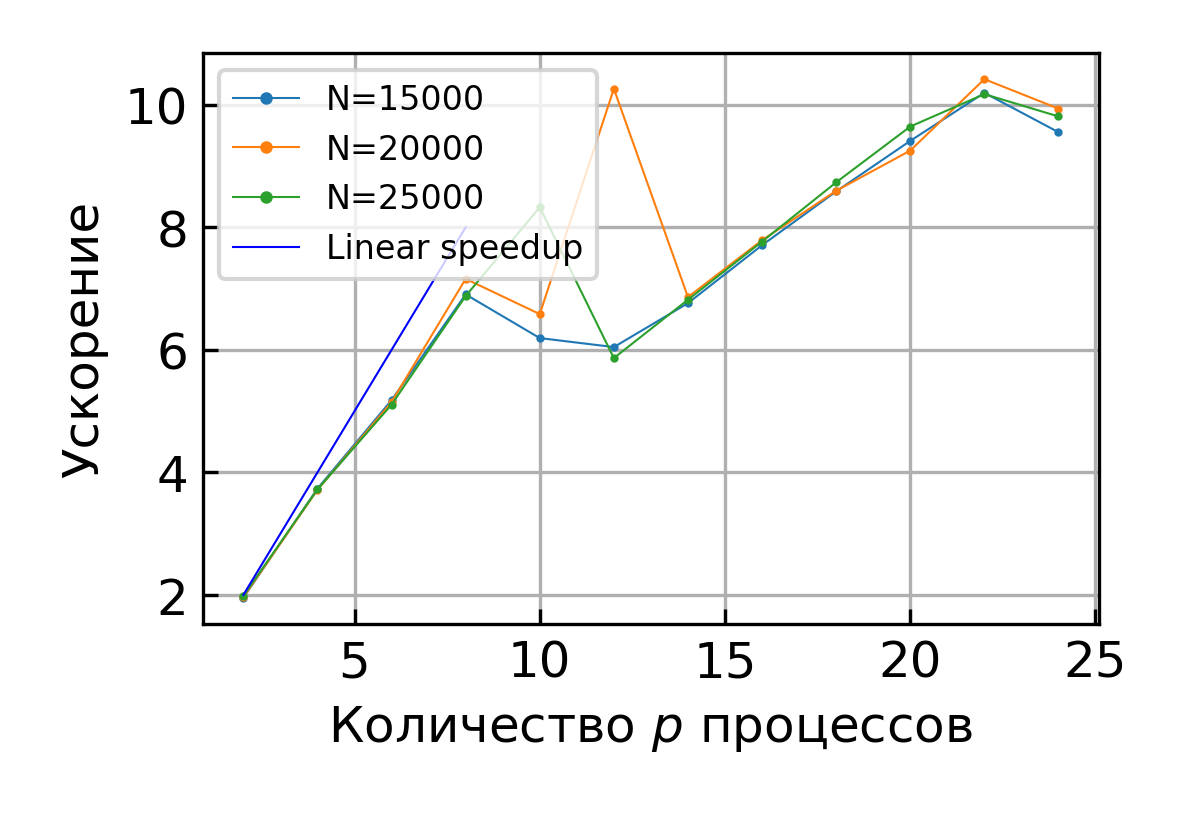
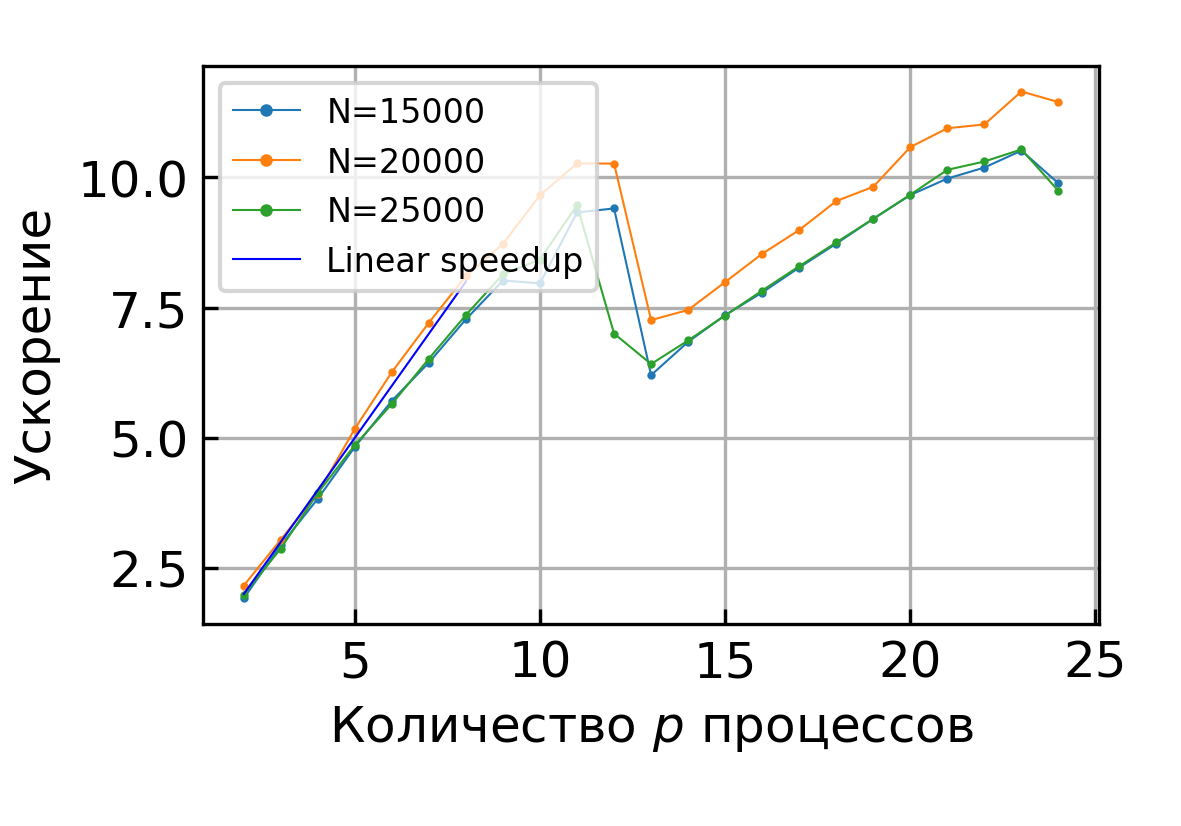
Improve speed

diff --git a/2lab/pc/main.c b/2lab/pc/main.c
@@ -40,84 +40,98 @@ void matrix_vector_product(double* a, double* b, double* c, int m, int n)
     }
 }
 
-double run_serial(int m, int n)
+double run_serial(double* a, double* b, double* c, int m, int n)
 {
-    double *a, *b, *c;
-    a = malloc(sizeof(*a) * m * n);
-    b = malloc(sizeof(*b) * n);
-    c = malloc(sizeof(*c) * m);
-    for (int i = 0; i < m; i++) {
-        for (int j = 0; j < n; j++)
-            a[i * n + j] = i + j;
-    }
-    for (int j = 0; j < n; j++)
-        b[j] = j;
     double t = wtime();
     matrix_vector_product(a, b, c, m, n);
     t = wtime() - t;
     printf("%d x %d elements\n", m, n);
     printf("Elapsed time (serial): %.6f sec.\n", t);
-    free(a);
-    free(b);
-    free(c);
     return t;
 }
 
-double run_parallel(int m, int n, int n_threads)
+double
+run_parallel(double* a, double* b, double* c, int m, int n, int n_threads)
 {
-    double *a, *b, *c;
-    // Allocate memory for 2-d array a[m, n]
-    a = malloc(sizeof(*a) * m * n);
-    b = malloc(sizeof(*b) * n);
-    c = malloc(sizeof(*c) * m);
-    for (int i = 0; i < m; i++) {
-        for (int j = 0; j < n; j++)
-            a[i * n + j] = i + j;
-    }
-    for (int j = 0; j < n; j++)
-        b[j] = j;
     double t = wtime();
     matrix_vector_product_omp(a, b, c, m, n, n_threads);
     t = wtime() - t;
     printf("Elapsed time (parallel: %d threads): %.6f sec.\n", n_threads, t);
-    free(a);
-    free(b);
-    free(c);
     return t;
 }
 
 int main(int argc, char** argv)
 {
     int n[] = {15000, 20000, 25000};
+    double *a, *b, *c;
     double t[N_LOGICAL_CORES + 1];
     FILE* file;
 
-    t[1] = run_serial(n[0], n[0]);
-    for (int i = 2; i <= N_LOGICAL_CORES; i += 2)
-        t[i] = run_parallel(n[0], n[0], i);
+    a = malloc(sizeof(*a) * n[0] * n[0]);
+    b = malloc(sizeof(*b) * n[0]);
+    c = malloc(sizeof(*c) * n[0]);
+    for (int i = 0; i < n[0]; i++) {
+        for (int j = 0; j < n[0]; j++)
+            a[i * n[0] + j] = i + j;
+    }
+    for (int j = 0; j < n[0]; j++)
+        b[j] = j;
+
+    t[1] = run_serial(a, b, c, n[0], n[0]);
+    for (int i = 2; i <= N_LOGICAL_CORES; i++)
+        t[i] = run_parallel(a, b, c, n[0], n[0], i);
     file = fopen("15000.dat", "w");
-    for (int i = 2; i <= N_LOGICAL_CORES; i += 2) {
+    for (int i = 2; i <= N_LOGICAL_CORES; i++) {
         fprintf(file, "%d    %f\n", i, t[1] / t[i]);
     }
     fclose(file);
+    free(a);
+    free(b);
+    free(c);
 
-    t[1] = run_serial(n[1], n[1]);
-    for (int i = 2; i <= N_LOGICAL_CORES; i += 2)
-        t[i] = run_parallel(n[1], n[1], i);
+    a = malloc(sizeof(*a) * n[1] * n[1]);
+    b = malloc(sizeof(*b) * n[1]);
+    c = malloc(sizeof(*c) * n[1]);
+    for (int i = 0; i < n[1]; i++) {
+        for (int j = 0; j < n[1]; j++)
+            a[i * n[1] + j] = i + j;
+    }
+    for (int j = 0; j < n[1]; j++)
+        b[j] = j;
+
+    t[1] = run_serial(a, b, c, n[1], n[1]);
+    for (int i = 2; i <= N_LOGICAL_CORES; i++)
+        t[i] = run_parallel(a, b, c, n[1], n[1], i);
     file = fopen("20000.dat", "w");
-    for (int i = 2; i <= N_LOGICAL_CORES; i += 2) {
+    for (int i = 2; i <= N_LOGICAL_CORES; i++) {
         fprintf(file, "%d    %f\n", i, t[1] / t[i]);
     }
     fclose(file);
+    free(a);
+    free(b);
+    free(c);
 
-    t[1] = run_serial(n[2], n[2]);
-    for (int i = 2; i <= N_LOGICAL_CORES; i += 2)
-        t[i] = run_parallel(n[2], n[2], i);
+    a = malloc(sizeof(*a) * n[2] * n[2]);
+    b = malloc(sizeof(*b) * n[2]);
+    c = malloc(sizeof(*c) * n[2]);
+    for (int i = 0; i < n[2]; i++) {
+        for (int j = 0; j < n[2]; j++)
+            a[i * n[2] + j] = i + j;
+    }
+    for (int j = 0; j < n[2]; j++)
+        b[j] = j;
+
+    t[1] = run_serial(a, b, c, n[2], n[2]);
+    for (int i = 2; i <= N_LOGICAL_CORES; i++)
+        t[i] = run_parallel(a, b, c, n[2], n[2], i);
     file = fopen("25000.dat", "w");
-    for (int i = 2; i <= N_LOGICAL_CORES; i += 2) {
+    for (int i = 2; i <= N_LOGICAL_CORES; i++) {
         fprintf(file, "%d    %f\n", i, t[1] / t[i]);
     }
     fclose(file);
+    free(a);
+    free(b);
+    free(c);
 
     return 0;
 }

diff --git a/2lab/cluster/main.c b/2lab/cluster/main.c
@@ -40,84 +40,98 @@ void matrix_vector_product(double* a, double* b, double* c, int m, int n)
     }
 }
 
-double run_serial(int m, int n)
+double run_serial(double* a, double* b, double* c, int m, int n)
 {
-    double *a, *b, *c;
-    a = malloc(sizeof(*a) * m * n);
-    b = malloc(sizeof(*b) * n);
-    c = malloc(sizeof(*c) * m);
-    for (int i = 0; i < m; i++) {
-        for (int j = 0; j < n; j++)
-            a[i * n + j] = i + j;
-    }
-    for (int j = 0; j < n; j++)
-        b[j] = j;
     double t = wtime();
     matrix_vector_product(a, b, c, m, n);
     t = wtime() - t;
     printf("%d x %d elements\n", m, n);
     printf("Elapsed time (serial): %.6f sec.\n", t);
-    free(a);
-    free(b);
-    free(c);
     return t;
 }
 
-double run_parallel(int m, int n, int n_threads)
+double
+run_parallel(double* a, double* b, double* c, int m, int n, int n_threads)
 {
-    double *a, *b, *c;
-    // Allocate memory for 2-d array a[m, n]
-    a = malloc(sizeof(*a) * m * n);
-    b = malloc(sizeof(*b) * n);
-    c = malloc(sizeof(*c) * m);
-    for (int i = 0; i < m; i++) {
-        for (int j = 0; j < n; j++)
-            a[i * n + j] = i + j;
-    }
-    for (int j = 0; j < n; j++)
-        b[j] = j;
     double t = wtime();
     matrix_vector_product_omp(a, b, c, m, n, n_threads);
     t = wtime() - t;
     printf("Elapsed time (parallel: %d threads): %.6f sec.\n", n_threads, t);
-    free(a);
-    free(b);
-    free(c);
     return t;
 }
 
 int main(int argc, char** argv)
 {
     int n[] = {15000, 20000, 25000};
+    double *a, *b, *c;
     double t[N_LOGICAL_CORES + 1];
     FILE* file;
 
-    t[1] = run_serial(n[0], n[0]);
+    a = malloc(sizeof(*a) * n[0] * n[0]);
+    b = malloc(sizeof(*b) * n[0]);
+    c = malloc(sizeof(*c) * n[0]);
+    for (int i = 0; i < n[0]; i++) {
+        for (int j = 0; j < n[0]; j++)
+            a[i * n[0] + j] = i + j;
+    }
+    for (int j = 0; j < n[0]; j++)
+        b[j] = j;
+
+    t[1] = run_serial(a, b, c, n[0], n[0]);
     for (int i = 2; i <= N_LOGICAL_CORES; i++)
-        t[i] = run_parallel(n[0], n[0], i);
+        t[i] = run_parallel(a, b, c, n[0], n[0], i);
     file = fopen("15000.dat", "w");
     for (int i = 2; i <= N_LOGICAL_CORES; i++) {
         fprintf(file, "%d    %f\n", i, t[1] / t[i]);
     }
     fclose(file);
+    free(a);
+    free(b);
+    free(c);
 
-    t[1] = run_serial(n[1], n[1]);
+    a = malloc(sizeof(*a) * n[1] * n[1]);
+    b = malloc(sizeof(*b) * n[1]);
+    c = malloc(sizeof(*c) * n[1]);
+    for (int i = 0; i < n[1]; i++) {
+        for (int j = 0; j < n[1]; j++)
+            a[i * n[1] + j] = i + j;
+    }
+    for (int j = 0; j < n[1]; j++)
+        b[j] = j;
+
+    t[1] = run_serial(a, b, c, n[1], n[1]);
     for (int i = 2; i <= N_LOGICAL_CORES; i++)
-        t[i] = run_parallel(n[1], n[1], i);
+        t[i] = run_parallel(a, b, c, n[1], n[1], i);
     file = fopen("20000.dat", "w");
     for (int i = 2; i <= N_LOGICAL_CORES; i++) {
         fprintf(file, "%d    %f\n", i, t[1] / t[i]);
     }
     fclose(file);
+    free(a);
+    free(b);
+    free(c);
 
-    t[1] = run_serial(n[2], n[2]);
+    a = malloc(sizeof(*a) * n[2] * n[2]);
+    b = malloc(sizeof(*b) * n[2]);
+    c = malloc(sizeof(*c) * n[2]);
+    for (int i = 0; i < n[2]; i++) {
+        for (int j = 0; j < n[2]; j++)
+            a[i * n[2] + j] = i + j;
+    }
+    for (int j = 0; j < n[2]; j++)
+        b[j] = j;
+
+    t[1] = run_serial(a, b, c, n[2], n[2]);
     for (int i = 2; i <= N_LOGICAL_CORES; i++)
-        t[i] = run_parallel(n[2], n[2], i);
+        t[i] = run_parallel(a, b, c, n[2], n[2], i);
     file = fopen("25000.dat", "w");
     for (int i = 2; i <= N_LOGICAL_CORES; i++) {
         fprintf(file, "%d    %f\n", i, t[1] / t[i]);
     }
     fclose(file);
+    free(a);
+    free(b);
+    free(c);
 
     return 0;
 }
